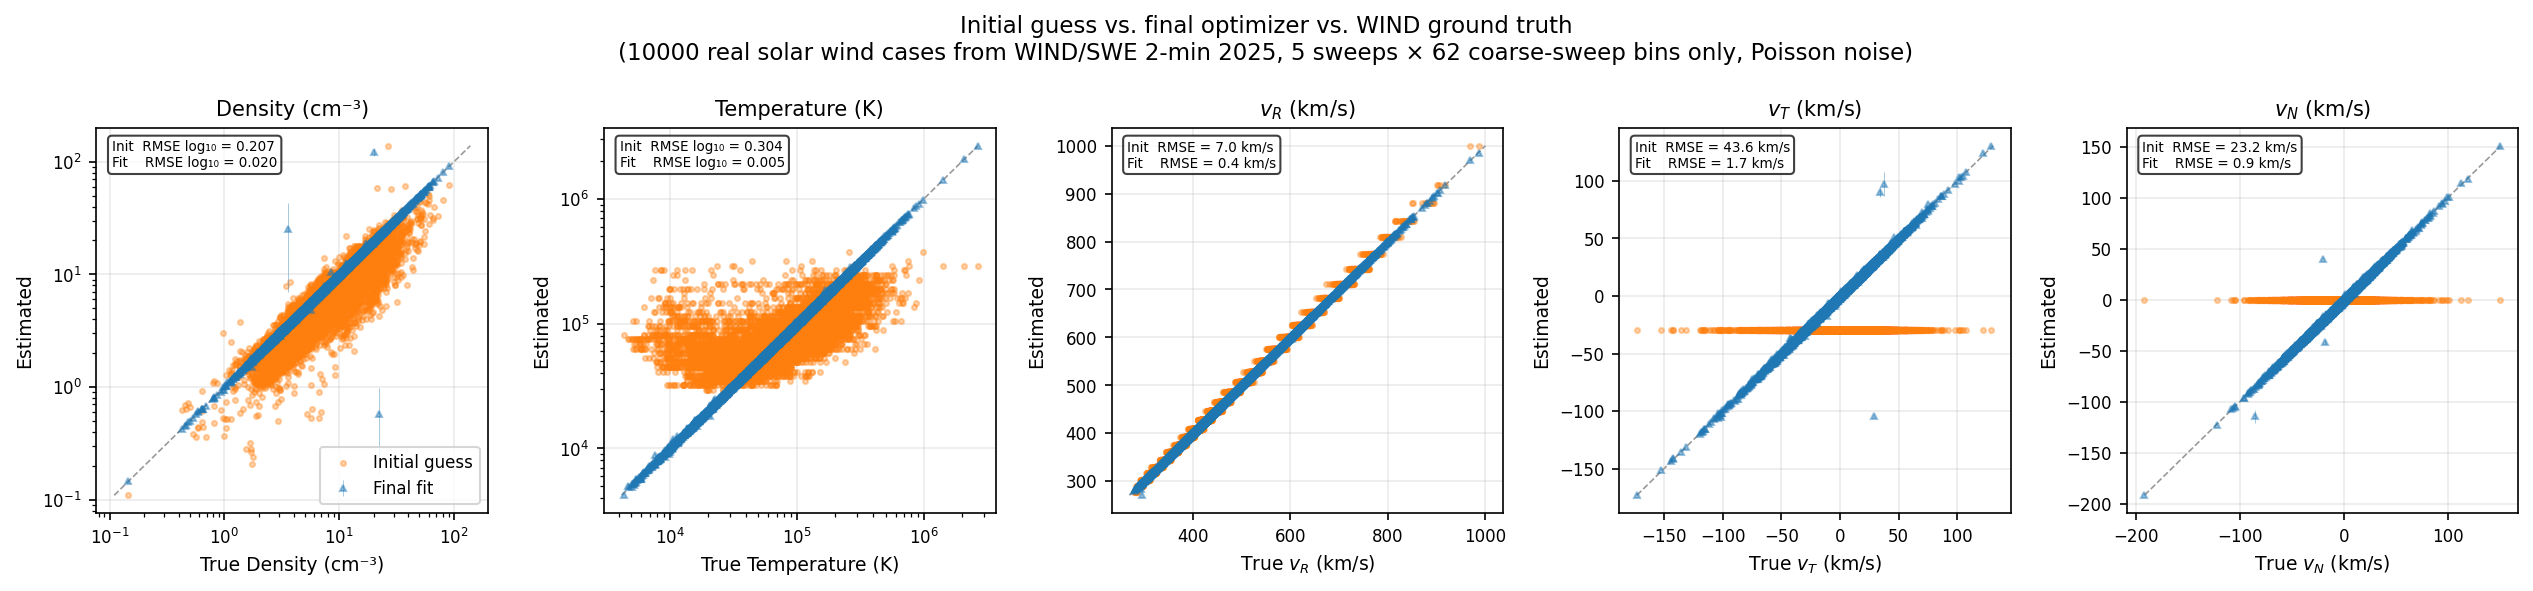
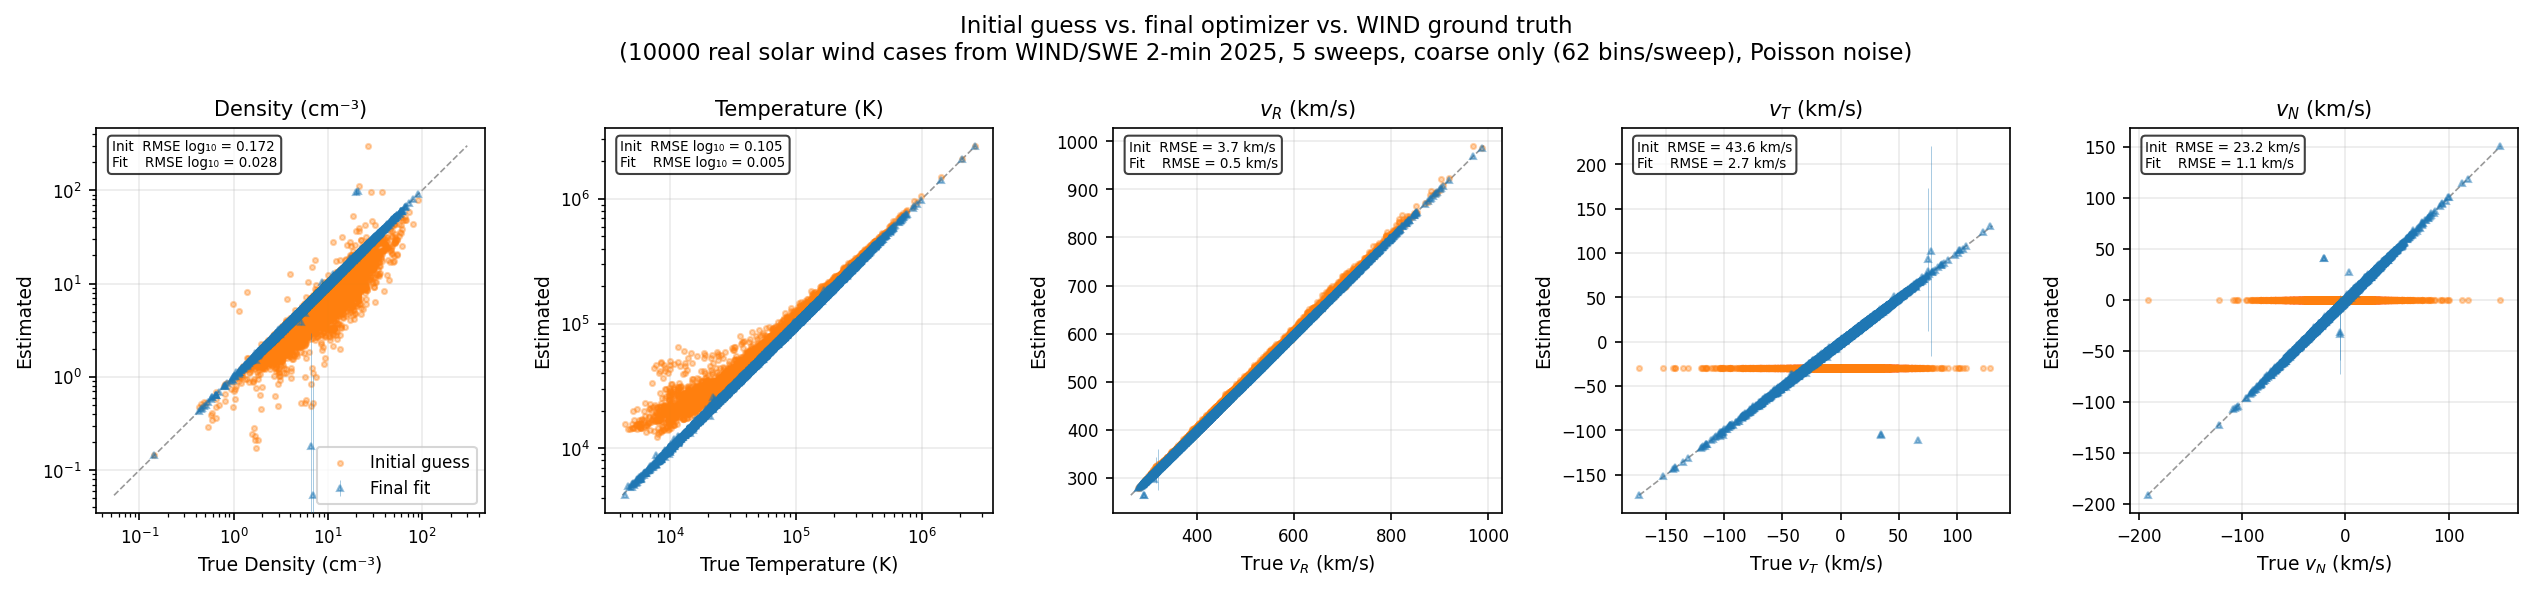
fix plot, add unit tests

diff --git a/docs/swapi/figure_src/plot_fit_accuracy.py b/docs/swapi/figure_src/plot_fit_accuracy.py
@@ -111,18 +111,48 @@ else:
 _N_BINS = len(_VOLTAGES)
 
 
-def _compute_rotation_matrices(n_sweeps: int) -> np.ndarray:
-    """RTN→SWAPI rotation matrices at sweep midpoints, from SPICE kernels.
+# SPICE-derived RTN→SWAPI rotation matrices, one per sweep at sweep midpoints
+# spaced by `_SWEEP_DURATION_S` starting from `_BASE_TIMESTAMP`. Inlined to
+# avoid requiring an attitude CK that covers _BASE_TIMESTAMP. Captures the
+# ~4° spin-axis tilt off -R_RTN and the ~15.13 s spin period (sweep-to-sweep
+# phase shift). Per-bin spin variation within a sweep is dropped; the 5
+# sweeps still span one full spin cycle, so v_T and v_N remain observable.
+_PRECOMPUTED_ROTATION_MATRICES = np.array([
+    [[+0.0705, +0.9157, +0.3955],
+     [-0.9968, +0.0792, -0.0057],
+     [-0.0365, -0.3939, +0.9184]],
+    [[-0.0141, -0.1350, +0.9907],
+     [-0.9972, +0.0743, -0.0041],
+     [-0.0731, -0.9881, -0.1357]],
+    [[-0.0721, -0.9884, +0.1340],
+     [-0.9974, +0.0716, -0.0084],
+     [-0.0013, -0.1342, -0.9909]],
+    [[-0.0183, -0.3937, -0.9191],
+     [-0.9971, +0.0750, -0.0122],
+     [+0.0737, +0.9162, -0.3939]],
+    [[+0.0683, +0.7775, -0.6251],
+     [-0.9968, +0.0795, -0.0100],
+     [+0.0420, +0.6238, +0.7805]],
+])
 
-    Per-bin spin variation within a sweep is dropped; one matrix per sweep at
-    its midpoint. Sweeps are spaced `_SWEEP_DURATION_S` apart starting from
-    `_BASE_TIMESTAMP`. The sweep-to-sweep phase shift captures the ~15 s
-    spin so v_T and v_N remain observable across 5 sweeps.
+
+def _compute_rotation_matrices(n_sweeps: int) -> np.ndarray:
+    """RTN→SWAPI rotation matrices at sweep midpoints.
+
+    Tries SPICE first; falls back to the inlined precomputed matrices if the
+    required attitude CK is unavailable. Per-bin spin variation within a sweep
+    is dropped; one matrix per sweep at its midpoint.
     """
-    furnish_local_spice()
-    base_et = spiceypy.datetime2et(_BASE_TIMESTAMP)
-    midpoints_et = base_et + (np.arange(n_sweeps) + 0.5) * _SWEEP_DURATION_S
-    return get_rotation_matrix(midpoints_et, SpiceFrame.IMAP_RTN, SpiceFrame.IMAP_SWAPI)
+    try:
+        furnish_local_spice()
+        base_et = spiceypy.datetime2et(_BASE_TIMESTAMP)
+        midpoints_et = base_et + (np.arange(n_sweeps) + 0.5) * _SWEEP_DURATION_S
+        return get_rotation_matrix(midpoints_et, SpiceFrame.IMAP_RTN, SpiceFrame.IMAP_SWAPI)
+    except spiceypy.utils.exceptions.SpiceyError:
+        if n_sweeps != _PRECOMPUTED_ROTATION_MATRICES.shape[0]:
+            raise
+        print("(SPICE attitude unavailable; using precomputed rotation matrices)")
+        return _PRECOMPUTED_ROTATION_MATRICES
 
 # Set by main() before forking; children inherit via fork.
 _worker_state: types.SimpleNamespace | None = None
@@ -156,13 +186,15 @@ def _load_wind_samples(csv_path: Path) -> tuple[np.ndarray, ...]:
 def _initialize_worker_state(ground_truth_params: tuple[np.ndarray, ...]) -> None:
     global _worker_state
 
-    print(f"Using {len(_COARSE_VOLTAGES)} coarse-sweep bins, "
-          f"{_COARSE_VOLTAGES.min():.1f}–{_COARSE_VOLTAGES.max():.1f} V")
+    label = "coarse+fine" if INCLUDE_FINE_SWEEPS else "coarse-only"
+    print(f"Using {_N_BINS} bins ({label}), "
+          f"{_VOLTAGES.min():.1f}–{_VOLTAGES.max():.1f} V")
 
     swapi_response = load_swapi_response()
-    all_esa_voltages = np.tile(_COARSE_VOLTAGES, _N_SWEEPS)
+    all_esa_voltages = np.tile(_VOLTAGES, _N_SWEEPS)
     swapi_response.warm_cache(all_esa_voltages)
-    per_bin_rotation_matrices = np.repeat(_ROTATION_MATRICES, _N_BINS, axis=0)
+    rotation_matrices = _compute_rotation_matrices(_N_SWEEPS)
+    per_bin_rotation_matrices = np.repeat(rotation_matrices, _N_BINS, axis=0)
     # Base context: bundles per-bin response grids and rotation matrices. Reused
     # for both forward modeling (synthetic count rates) and per-fit context
     # construction. count_rate is a placeholder of ones to bypass the >0 filter.
@@ -307,10 +339,15 @@ def _plot_results(data: pd.DataFrame) -> None:
     ]
 
     fig, axes = plt.subplots(1, 5, figsize=(17, 4))
+    bin_label = (
+        f"coarse+fine ({_N_BINS} bins/sweep)"
+        if INCLUDE_FINE_SWEEPS
+        else f"coarse only ({_N_BINS} bins/sweep)"
+    )
     fig.suptitle(
         f"Initial guess vs. final optimizer vs. WIND ground truth\n"
         f"({n_samples} real solar wind cases from WIND/SWE 2-min 2025, "
-        f"{_N_SWEEPS} sweeps × {_N_BINS} coarse-sweep bins only, Poisson noise)",
+        f"{_N_SWEEPS} sweeps, {bin_label}, Poisson noise)",
         fontsize=11,
     )
 
@@ -372,7 +409,8 @@ def _plot_results(data: pd.DataFrame) -> None:
 
     out_dir = _REPO_ROOT / "docs" / "swapi" / "figures"
     out_dir.mkdir(parents=True, exist_ok=True)
-    out_path = out_dir / "fit_accuracy.png"
+    out_name = "fit_accuracy_with_fine.png" if INCLUDE_FINE_SWEEPS else "fit_accuracy.png"
+    out_path = out_dir / out_name
     fig.savefig(out_path, dpi=150, bbox_inches="tight")
     print(f"Saved {out_path}")
 

diff --git a/tests/swapi/l3a/science/test_cold_slow_dense_wrong_basin.py b/tests/swapi/l3a/science/test_cold_slow_dense_wrong_basin.py
@@ -168,5 +168,119 @@ class TestColdSlowDenseWrongBasin(unittest.TestCase):
         )
 
 
+def _setup_synthetic_fit(
+    density: float, temperature_k: float, velocity_rtn: np.ndarray, seed: int,
+):
+    swapi_response = _load_swapi_response()
+    all_voltages = np.tile(_COARSE_VOLTAGES, _N_SWEEPS)
+    swapi_response.warm_cache(all_voltages)
+    per_bin_rotation_matrices = np.repeat(_ROTATION_MATRICES, _N_BINS, axis=0)
+
+    truth_params = SolarWindParams(
+        density=density,
+        bulk_velocity_rtn=velocity_rtn.copy(),
+        temperature=temperature_k,
+        mass_kg=PROTON_MASS_KG,
+    )
+    base_ctx = build_solar_wind_fit_context(
+        count_rate=np.ones_like(all_voltages),
+        esa_voltage=all_voltages,
+        swapi_response=swapi_response,
+        central_effective_area_scale=1.0,
+        rotation_matrices=per_bin_rotation_matrices,
+        mass_kg=PROTON_MASS_KG,
+        mass_per_charge_m_p_per_e=PROTON_MASS_PER_CHARGE_M_P_PER_E,
+    )
+    rates = apply_deadtime_correction_array(
+        model_solar_wind_coincidence_rates(truth_params, base_ctx)
+    )
+    rng = np.random.default_rng(seed)
+    count_rate = rng.poisson(np.maximum(rates * 0.145, 0.0)).astype(float) / 0.145
+
+    ctx = build_solar_wind_fit_context(
+        count_rate=count_rate,
+        esa_voltage=all_voltages,
+        swapi_response=swapi_response,
+        central_effective_area_scale=1.0,
+        rotation_matrices=per_bin_rotation_matrices,
+        mass_kg=PROTON_MASS_KG,
+        mass_per_charge_m_p_per_e=PROTON_MASS_PER_CHARGE_M_P_PER_E,
+    )
+    return fit_solar_wind_proton_moments(ctx)
+
+
+class _RecoverySuite(unittest.TestCase):
+    """Common assertions for a synthetic-truth recovery test."""
+
+    __test__ = False  # only the subclasses run
+
+    TRUE_DENSITY: float
+    TRUE_TEMPERATURE_K: float
+    TRUE_VELOCITY_RTN: np.ndarray
+    POISSON_SEED: int
+
+    @classmethod
+    def setUpClass(cls):
+        cls.result = _setup_synthetic_fit(
+            cls.TRUE_DENSITY, cls.TRUE_TEMPERATURE_K,
+            cls.TRUE_VELOCITY_RTN, cls.POISSON_SEED,
+        )
+
+    def test_radial_speed_recovered(self):
+        np.testing.assert_allclose(
+            self.result.bulk_velocity_rtn[0].nominal_value,
+            self.TRUE_VELOCITY_RTN[0], atol=2.0,
+        )
+
+    def test_tangential_speed_recovered(self):
+        np.testing.assert_allclose(
+            self.result.bulk_velocity_rtn[1].nominal_value,
+            self.TRUE_VELOCITY_RTN[1], atol=2.0,
+        )
+
+    def test_normal_speed_recovered(self):
+        np.testing.assert_allclose(
+            self.result.bulk_velocity_rtn[2].nominal_value,
+            self.TRUE_VELOCITY_RTN[2], atol=2.0,
+        )
+
+    def test_density_recovered(self):
+        np.testing.assert_allclose(
+            self.result.density.nominal_value, self.TRUE_DENSITY, rtol=0.05,
+        )
+
+    def test_temperature_recovered(self):
+        np.testing.assert_allclose(
+            self.result.temperature.nominal_value,
+            self.TRUE_TEMPERATURE_K, rtol=0.05,
+        )
+
+
+class TestSlowWarmHighVtWrongBasin(_RecoverySuite):
+    """Sample 1302 of WIND/SWE 2025: slow (v_R=312), warm (T≈22 kK), low-density
+    (n=5.2) with a large positive v_T (66.7 km/s). The fit lands at v_T≈-111
+    km/s (sign-flipped, magnitude inflated), n≈3.9, T≈25.9 kK. Distinct
+    failure mode from the cold/slow/dense case 7244 — same regime as case 1305.
+    """
+    __test__ = True
+    TRUE_DENSITY = 5.218
+    TRUE_TEMPERATURE_K = 21870.0
+    TRUE_VELOCITY_RTN = np.array([312.0, 66.7, 3.4])
+    POISSON_SEED = 1302
+
+
+class TestColdSlowDenseAdjacentWrongBasin(_RecoverySuite):
+    """Sample 7246 of WIND/SWE 2025: same plasma regime as case 7244
+    (cold/slow/dense; v_R=292, v_T=34.4, v_N=-20.2, T=14550 K, n=20.0). Case
+    7244 was fixed by the Gaussian-T initial guess + iso-|v| arc basin hop;
+    7246 still flips to v_T≈-105, n≈97. Likely needs further tuning of the
+    same code path or a different basin-hopping seed."""
+    __test__ = True
+    TRUE_DENSITY = 20.035
+    TRUE_TEMPERATURE_K = 14550.0
+    TRUE_VELOCITY_RTN = np.array([292.0, 34.4, -20.2])
+    POISSON_SEED = 7246
+
+
 if __name__ == "__main__":
     unittest.main()
